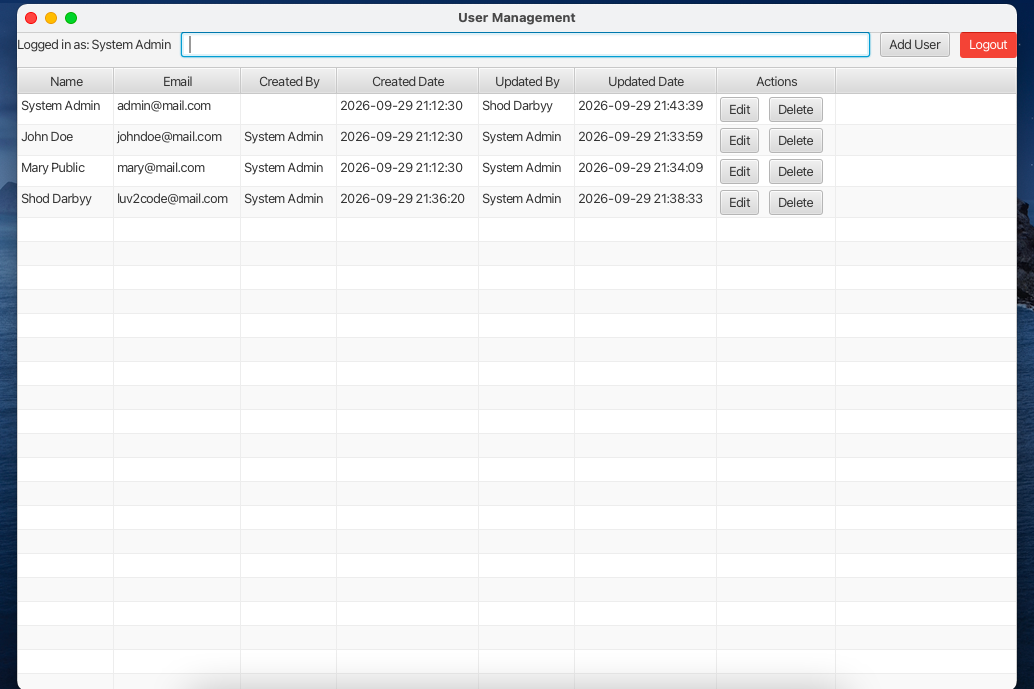
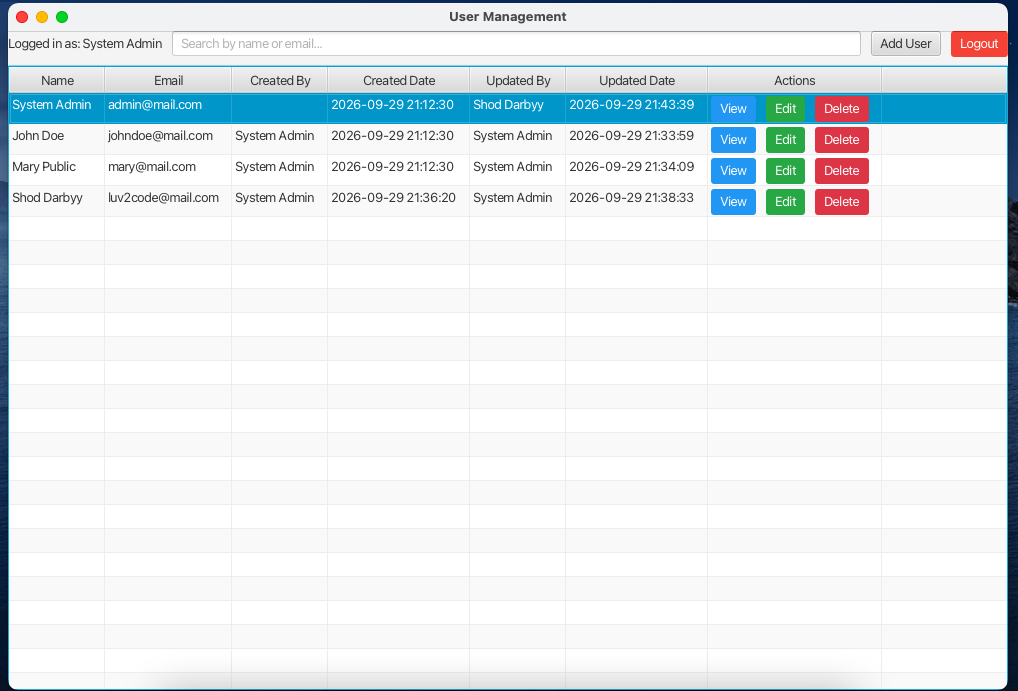
feature: impl user view detail feature & update read.me

Changed region(s): [[0.0, 0.0, 1.0, 1.0]]

diff --git a/src/main/java/org/example/ui/UserManagementUI.java b/src/main/java/org/example/ui/UserManagementUI.java
@@ -13,6 +13,7 @@ import javafx.scene.layout.Priority;
 import javafx.scene.layout.VBox;
 import javafx.stage.Stage;
 import org.example.controller.AddUserModalController;
+import org.example.controller.ViewUserModalController;
 import org.example.dto.UserDto;
 import org.example.service.UserService;
 import org.example.service.UserSession;
@@ -149,6 +150,7 @@ public class UserManagementUI {
     }
 
     private void initializeActionColumn() {
+        boolean canRead = UserSession.hasPermission("USER_READ");
         boolean canUpdate = UserSession.hasPermission("USER_UPDATE");
         boolean canDelete = UserSession.hasPermission("USER_DELETE");
 
@@ -160,11 +162,25 @@ public class UserManagementUI {
         TableColumn<UserDto, Void> actionColumn = new TableColumn<>("Actions");
 
         actionColumn.setCellFactory(param -> new TableCell<>() {
+            private final Button viewButton = new Button("View");
             private final Button editButton = new Button("Edit");
             private final Button deleteButton = new Button("Delete");
             private final HBox actionButtons = new HBox(10);
 
             {
+                // Style View button
+                viewButton.setStyle("-fx-background-color: #2196F3; -fx-text-fill: white;");
+                editButton.setStyle("-fx-background-color: #28a745; -fx-text-fill: white;");
+                deleteButton.setStyle("-fx-background-color: #dc3545; -fx-text-fill: white;");
+
+                if (canRead) {
+                    viewButton.setOnAction(event -> {
+                        UserDto user = getTableView().getItems().get(getIndex());
+                        openViewUserModal(user);
+                    });
+                    actionButtons.getChildren().add(viewButton);
+                }
+
                 if (canUpdate) {
                     editButton.setOnAction(event -> {
                         UserDto user = getTableView().getItems().get(getIndex());
@@ -179,6 +195,23 @@ public class UserManagementUI {
                         deleteUser(user);
                     });
                     actionButtons.getChildren().add(deleteButton);
+                }
+            }
+
+            private void openViewUserModal(UserDto dto) {
+                try {
+                    FXMLLoader loader = new FXMLLoader(getClass().getResource("/view/ViewUserModal.fxml"));
+                    VBox modalRoot = loader.load();
+
+                    ViewUserModalController controller = loader.getController();
+                    controller.setUser(dto);
+
+                    Stage modalStage = new Stage();
+                    modalStage.setTitle("View User - " + dto.getName());
+                    modalStage.setScene(new Scene(modalRoot));
+                    modalStage.showAndWait();
+                } catch (Exception e) {
+                    ExceptionHandler.handleException(e, "Failed to load user view modal.");
                 }
             }
 

diff --git a/src/main/java/org/example/controller/ViewUserModalController.java b/src/main/java/org/example/controller/ViewUserModalController.java
@@ -1,0 +1,49 @@
+package org.example.controller;
+
+import javafx.fxml.FXML;
+import javafx.scene.control.Label;
+import javafx.stage.Stage;
+import org.example.dto.UserDto;
+
+public class ViewUserModalController {
+
+    @FXML
+    private Label nameLabel;
+    @FXML private Label emailLabel;
+    @FXML private Label rolesLabel;
+    @FXML private Label permissionsLabel;
+    @FXML private Label createdByLabel;
+    @FXML private Label createdDateLabel;
+    @FXML private Label updatedByLabel;
+    @FXML private Label updatedDateLabel;
+
+    public void setUser(UserDto dto) {
+        if (dto == null) return;
+
+        nameLabel.setText(dto.getName() != null ? dto.getName() : "N/A");
+        emailLabel.setText(dto.getEmail() != null ? dto.getEmail() : "N/A");
+
+        // Roles and Permissions Formatting
+        String rolesStr = (dto.getRoles() != null && !dto.getRoles().isEmpty())
+                ? String.join(", ", dto.getRoles())
+                : "None";
+        rolesLabel.setText(rolesStr);
+
+        String permsStr = (dto.getPermissions() != null && !dto.getPermissions().isEmpty())
+                ? String.join(", ", dto.getPermissions())
+                : "None";
+        permissionsLabel.setText(permsStr);
+
+        // Audit Metadata Formatting
+        createdByLabel.setText(dto.getCreatedByName() != null ? dto.getCreatedByName() : "System / Initial");
+        createdDateLabel.setText(dto.getCreatedDate() != null ? dto.getCreatedDate() : "N/A");
+        updatedByLabel.setText(dto.getUpdatedByName() != null ? dto.getUpdatedByName() : "N/A");
+        updatedDateLabel.setText(dto.getUpdatedDate() != null ? dto.getUpdatedDate() : "N/A");
+    }
+
+    @FXML
+    private void handleClose() {
+        Stage stage = (Stage) nameLabel.getScene().getWindow();
+        stage.close();
+    }
+}

diff --git a/README.md b/README.md
@@ -41,6 +41,8 @@ Architecture Overview
 
 ![image_4.png](images%2Fimage_4.png)
 
+![image_3.png](images%2Fimage_5.png)
+
 ### Java Core & Spring Boot (Java Framework) Comparison
 ```
 Java Core                     Spring Boot
